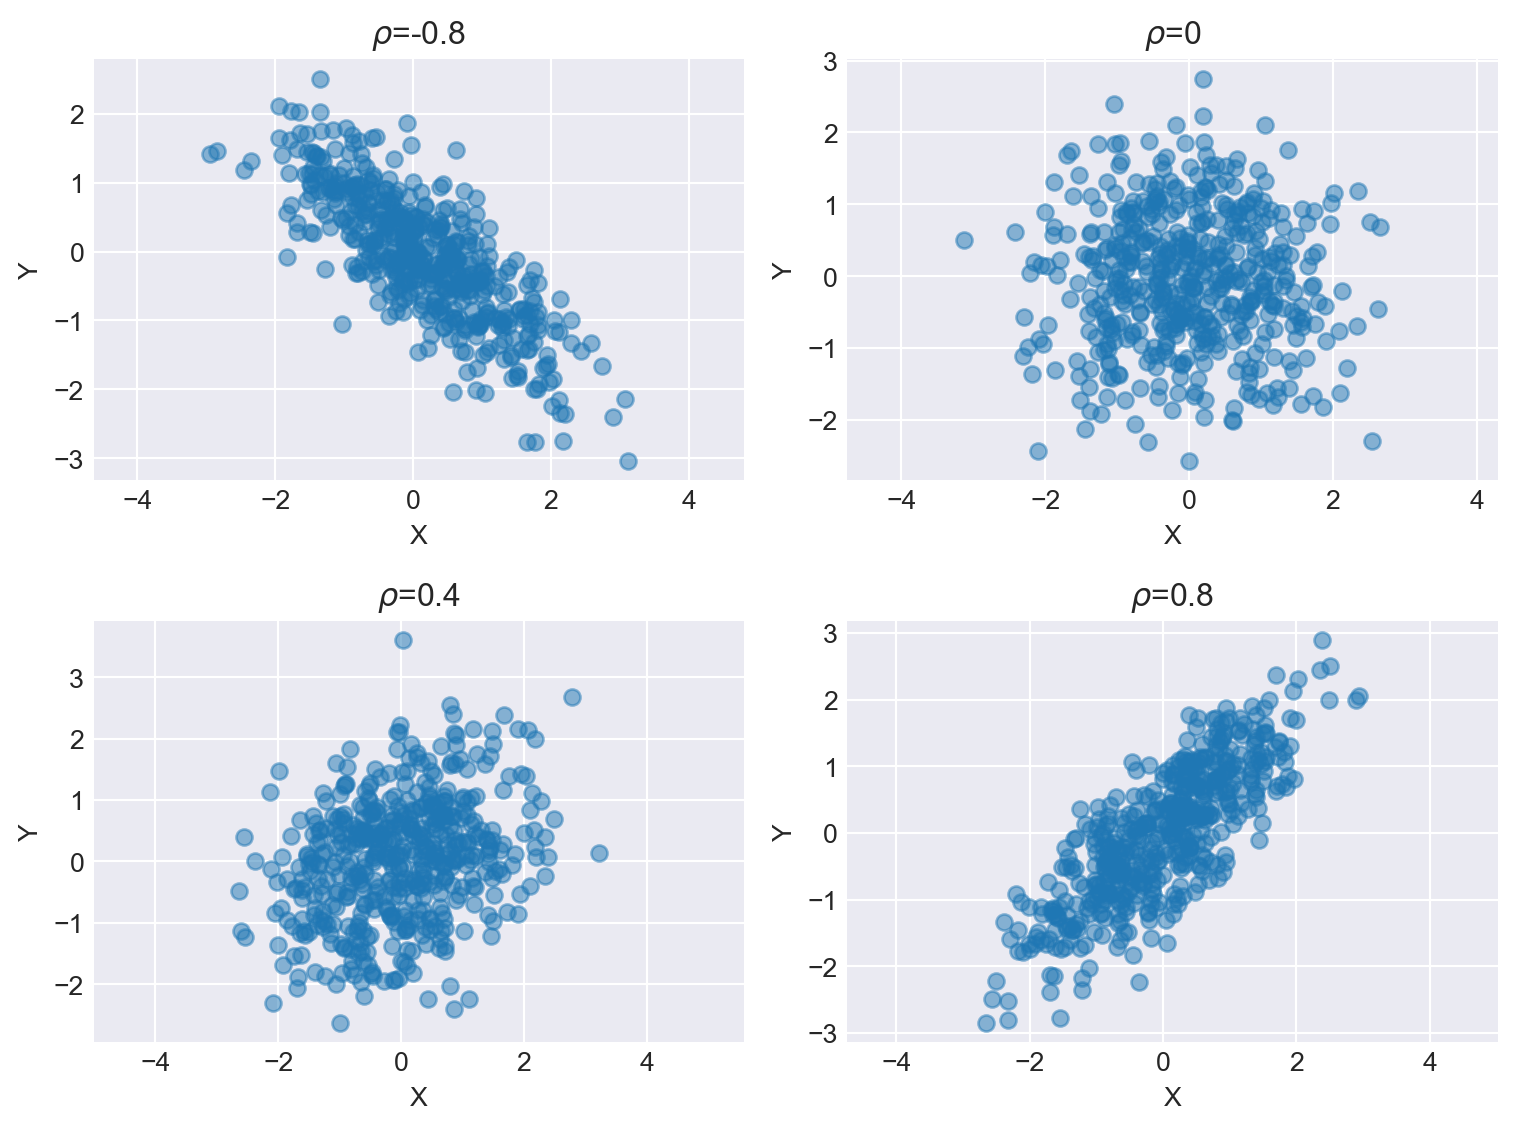
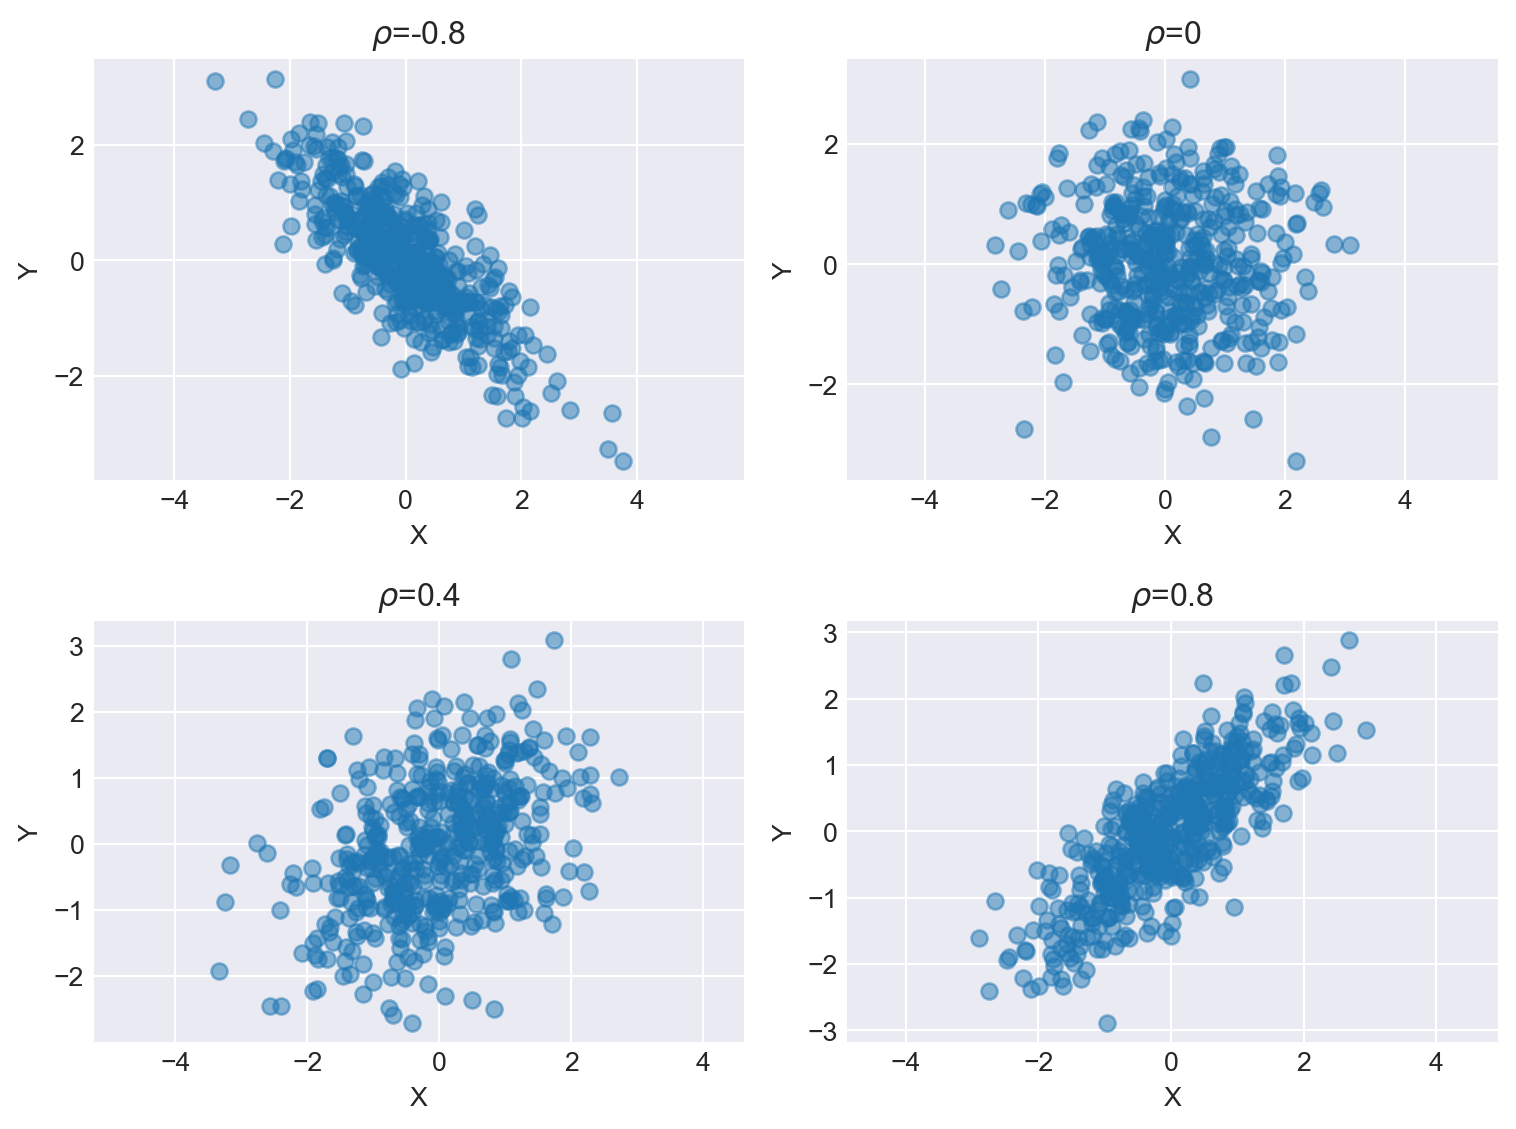
Appendix C is updated.

diff --git a/docs/AppendixC.html b/docs/AppendixC.html
@@ -508,7 +508,7 @@ window.Quarto = {
 </header>
 
 
-<div id="747250d3" class="cell" data-execution_count="1">
+<div id="1b3a667c" class="cell" data-execution_count="1">
 <div class="sourceCode cell-code" id="cb1"><pre class="sourceCode python code-with-copy"><code class="sourceCode python"><span id="cb1-1"><a href="#cb1-1" aria-hidden="true" tabindex="-1"></a><span class="im">import</span> numpy <span class="im">as</span> np</span>
 <span id="cb1-2"><a href="#cb1-2" aria-hidden="true" tabindex="-1"></a><span class="im">import</span> matplotlib.pyplot <span class="im">as</span> plt</span>
 <span id="cb1-3"><a href="#cb1-3" aria-hidden="true" tabindex="-1"></a>plt.style.use(<span class="st">'seaborn-v0_8-darkgrid'</span>)  </span>
@@ -709,11 +709,11 @@ M_Y(t)&amp;=\frac{1}{\sigma\sqrt{2\pi}}\int_{-\infty}^{\infty}e^{b}dy=\frac{1}{\
 </section>
 <section id="the-proof-of-the-central-limit-theorem" class="level2" data-number="C.4">
 <h2 data-number="C.4" class="anchored" data-anchor-id="the-proof-of-the-central-limit-theorem"><span class="header-section-number">C.4</span> The proof of the central limit theorem</h2>
-<p>The next result is known as <a href="https://en.wikipedia.org/wiki/L%C3%A9vy%27s_continuity_theorem">Levy’s continuity theorem</a>. It connects the convergence in distribution to the pointwise convergence of characteristic functions.</p>
+<p>The <a href="https://en.wikipedia.org/wiki/Central_limit_theorem">central limit theorem</a> introduced in <a href="Chapter18-TheoryRegression.html" class="quarto-xref"><span>Chapter 28</span></a> is known as the Lindeberg-Levy central limit theorem. Its proof is based on the convergence of characteristic functions. Therefore, we first state the following result, known as <a href="https://en.wikipedia.org/wiki/L%C3%A9vy%27s_continuity_theorem">Levy’s continuity theorem</a>, which connects the convergence in distribution to the pointwise convergence of characteristic functions.</p>
 <div id="thm-thmC-5" class="theorem">
 <p><span class="theorem-title"><strong>Theorem C.5 (Levy’s continuity theorem)</strong></span> Let <span class="math inline">\(\{Y_n\}\)</span> be a sequence of random variables with characteristic functions <span class="math inline">\(\{\varphi_{Y_n}(t)\}\)</span> and <span class="math inline">\(Y\)</span> be a random variable with characteristic function <span class="math inline">\(\varphi_Y(t)\)</span>. Then, <span class="math inline">\(Y_n\)</span> converges in distribution to <span class="math inline">\(Y\)</span> if and only if <span class="math inline">\(\varphi_{Y_n}(t)\)</span> converges to <span class="math inline">\(\varphi_Y(t)\)</span> for all real numbers <span class="math inline">\(t\)</span>.</p>
 </div>
-<p>We can use <a href="#thm-thmC-5" class="quarto-xref">Theorem&nbsp;<span>C.5</span></a> to prove the central limit theorem introduced in <a href="Chapter18-TheoryRegression.html" class="quarto-xref"><span>Chapter 28</span></a>.</p>
+<p>Below, we use <a href="#thm-thmC-5" class="quarto-xref">Theorem&nbsp;<span>C.5</span></a> to prove the central limit theorem introduced in <a href="Chapter18-TheoryRegression.html" class="quarto-xref"><span>Chapter 28</span></a>.</p>
 <div class="proof">
 <p><span class="proof-title"><em>Proof</em> (Proof of <a href="Chapter18-TheoryRegression.html#thm-thm25-10-clt" class="quarto-xref">Theorem&nbsp;<span>28.14</span></a>). </span>Define the standardized random variable <span class="math inline">\(Z_i=\frac{Y_i-\mu_Y}{\sigma_Y}\)</span> for <span class="math inline">\(i=1,2,\ldots,n\)</span>. Then, <span class="math inline">\(\E(Z_i)=0\)</span> and <span class="math inline">\(\text{var}(Z_i)=1\)</span>. Let <span class="math inline">\(\varphi_{Z_i}(t)\)</span> be the characteristic function of <span class="math inline">\(Z_i\)</span>. Using <a href="#eq-eqC-2" class="quarto-xref">Equation&nbsp;<span>C.2</span></a>, we can determine the Taylor series expansion of <span class="math inline">\(\varphi_{Z_i}(t)\)</span> around <span class="math inline">\(t=0\)</span> as <span class="math display">\[
 \varphi_{Z_i}(t)=1-\frac{t^2}{2}+o(t^2).
